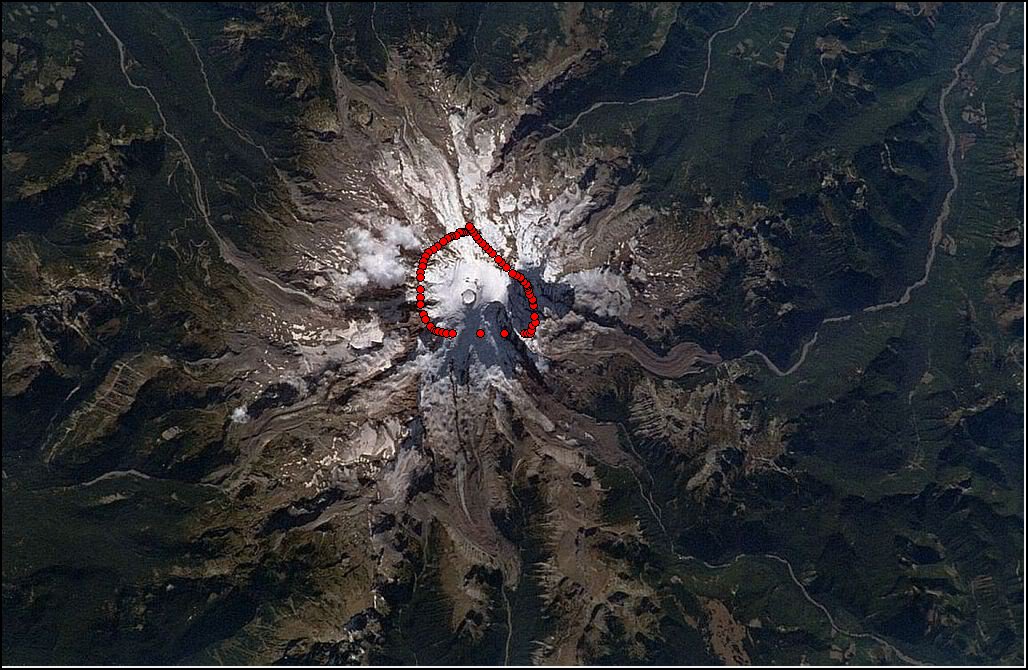
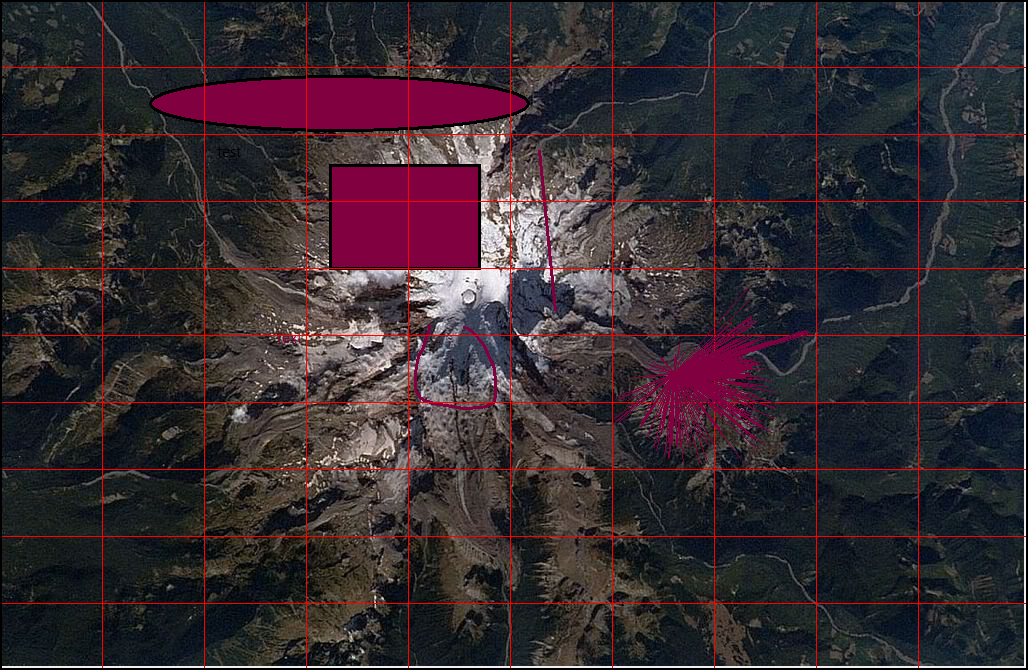
added arcs and smoother lines to drawing canvas, TODO add image file change and polygons

diff --git a/canvas_tool.py b/canvas_tool.py
@@ -5,7 +5,7 @@ from PIL import ImageTk, ImageGrab, Image
 import os
 
 # TOOLS
-LINE, RECTANGLE, CIRCLE, TEXT, FREE, GRID, UNDO, SAVE, COLOR = list(range(9))
+LINE, RECTANGLE, CIRCLE, ARC, TEXT, FREE, ARRAY, GRID, UNDO, SAVE, COLOR = list(range(11))
 
 # path to background image
 path = os.path.join('.', 'MTRAINIER.jpg')
@@ -13,8 +13,25 @@ path = os.path.join('.', 'MTRAINIER.jpg')
 
 # history stack
 HISTORY = list()
+DRAW_WIDTH = 3
 
 root = Tk()
+
+class ARCpopupWindow(object):
+    def __init__(self,master):
+        top=self.top=Toplevel(master)
+        self.tkvar = StringVar(root)
+        choices = {'arc', 'chord', 'pieslice'}
+        self.tkvar.set('pieslice')  # set the default option
+        self.popupMenu = OptionMenu(top, self.tkvar, *choices)
+        Label(top, text="Choose a dish").pack()
+        self.popupMenu.pack()
+        self.b=Button(top,text='Ok',command=self.cleanup)
+        self.b.pack()
+
+    def cleanup(self):
+        self.value = self.tkvar.get()
+        self.top.destroy()
 
 class popupWindow(object):
     def __init__(self,master):
@@ -77,13 +94,14 @@ class Paint:
         if self._tool is None or self._obj is None:
             return
         x, y = self.lastx, self.lasty
-        if self._tool in (LINE, RECTANGLE, CIRCLE, TEXT, GRID, UNDO, SAVE, COLOR):
+        if self._tool in (LINE, RECTANGLE, CIRCLE, ARC, TEXT, GRID, UNDO, SAVE, COLOR):
             self.canvas.coords(self._obj, (x, y, event.x, event.y))
-        else:
-            x1, y1 = (event.x - 1), (event.y - 1)
-            x2, y2 = (event.x + 1), (event.y + 1)
-            print x1, x2, ' -- ', y1, y2
-            self._obj = self.canvas.create_oval(x1, y1, x2, y2, fill="red")
+        if self._tool == ARRAY:
+            self._obj = self.canvas.create_line((x, y, event.x, event.y), fill=self.FILL, width=1, smooth=True)
+            HISTORY.append(self._obj)
+        elif self._tool == FREE:
+            self._obj = self.canvas.create_line((x, y, event.x, event.y), fill=self.FILL, width=DRAW_WIDTH, smooth=True)
+            self.lastx, self.lasty = event.x, event.y
             HISTORY.append(self._obj)
 
     def set_background(self):
@@ -97,36 +115,49 @@ class Paint:
             return
         x, y = event.x, event.y
         if self._tool == LINE:
-            self._obj = self.canvas.create_line((x, y, x, y), fill=self.FILL)
+            self._obj = self.canvas.create_line((x, y, x, y), fill=self.FILL, width=DRAW_WIDTH)
             HISTORY.append(self._obj)
         if self._tool == RECTANGLE:
-            self._obj = self.canvas.create_rectangle((x, y, x, y), fill=self.FILL)
+            self._obj = self.canvas.create_rectangle((x, y, x, y), fill=self.FILL, width=DRAW_WIDTH)
             HISTORY.append(self._obj)
         if self._tool == CIRCLE:
-            self._obj = self.canvas.create_oval((x, y, x, y), fill=self.FILL)
+            self._obj = self.canvas.create_oval((x, y, x, y), fill=self.FILL, width=DRAW_WIDTH)
+            HISTORY.append(self._obj)
+        if self._tool == ARC:
+            self._obj = self.canvas.create_arc(x, y, x, y, fill=self.FILL, width=DRAW_WIDTH)
+            self.w = ARCpopupWindow(self.canvas)
+            self.canvas.wait_window(self.w.top)
+            self.canvas.itemconfig(self._obj, style=self.w.value)
             HISTORY.append(self._obj)
         if self._tool == TEXT:
-            self._obj = self.canvas.create_text(x, y, fill=self.FILL)
+            self._obj = self.canvas.create_text(x, y, fill=self.FILL, )
             self.w = popupWindow(self.canvas)
             self.canvas.wait_window(self.w.top)
             self.canvas.itemconfig(self._obj, text=self.w.value)
             HISTORY.append(self._obj)
         if self._tool == GRID:
+            height = self.canvas.winfo_height()
+            width = self.canvas.winfo_width()
             for i in range(10):
-                self.canvas.create_line(50 * i, 0, 50 * i, 400)
-                self.canvas.create_line(0, 50 * i, 400, 50 * i)
+                # horizontal
+                self.canvas.create_line((width / 10) * i, 0, (width / 10) * i, height, fill='red')
+                # verticle
+                self.canvas.create_line(0, (height / 10) * i, width, (height / 10) * i, fill='red')
         if self._tool == UNDO:
             try:
                 act = HISTORY.pop()
                 self.canvas.delete(act)
             except IndexError as e:
                 print e
-        elif self._tool == SAVE:
+        if self._tool == SAVE:
             x=root.winfo_rootx()+self.canvas.winfo_x()
             y=root.winfo_rooty()+self.canvas.winfo_y()
             x1=x+self.canvas.winfo_width()
             y1=y+self.canvas.winfo_height()
             ImageGrab.grab().crop((x,y,x1,y1)).save("out.png")
+        elif self._tool == COLOR:
+            color = askcolor()
+            self.FILL = color[1]
 
         self.lastx, self.lasty = x, y
 
@@ -141,7 +172,7 @@ class Tool:
 
         frame = Frame(parent)
         self._curr_tool = None
-        for i, (text, t) in enumerate((('Line', LINE), ('Rect', RECTANGLE), ('Circ', CIRCLE), ('Text', TEXT), ('Free', FREE), ('Grid', GRID), ('Undo', UNDO), ('SAVE', SAVE), ('Color', COLOR))):
+        for i, (text, t) in enumerate((('Line', LINE), ('Rect', RECTANGLE), ('Circ', CIRCLE), ('Arc', ARC), ('Text', TEXT), ('Free', FREE), ('Array', ARRAY), ('Grid', GRID), ('Undo', UNDO), ('SAVE', SAVE), ('Color', COLOR))):
             lbl = Label(frame, text=text, width=5, relief='raised')
             lbl._tool = t
             lbl.bind('<Button-1>', self.update_tool)
@@ -164,6 +195,7 @@ canvas = Canvas(highlightbackground='black')
 whiteboard = Paint(canvas)
 tool = Tool(whiteboard)
 canvas.pack(fill='both', expand=True, padx=6, pady=6, anchor='w')
+
 img = Image.open(path)
 img = ImageTk.PhotoImage(img)
 Paint.canvas_image = canvas.create_image((0, 0), image=img, anchor="nw")
